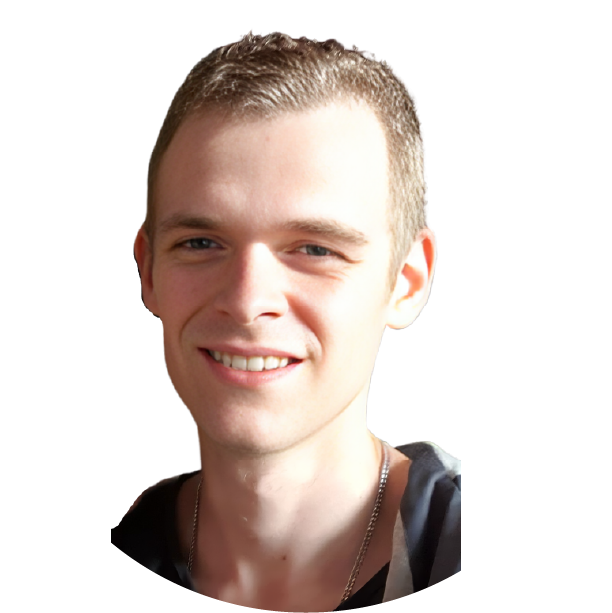
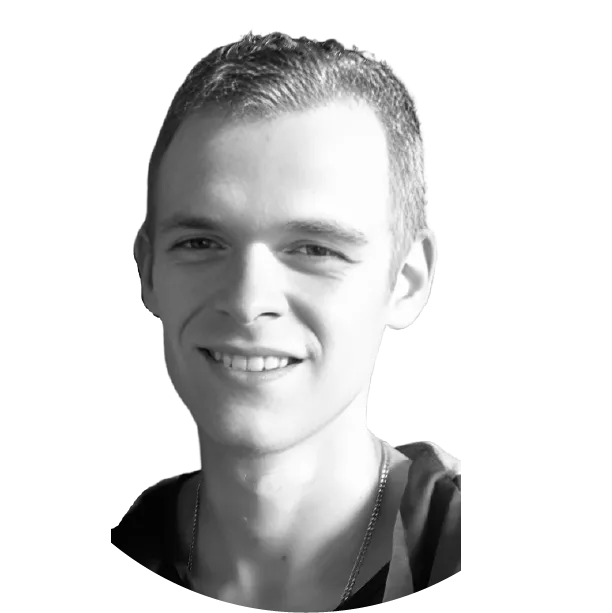
chore: clean-up

Changed region(s): [[0.2173, 0.062, 0.7141, 1.0]]

diff --git a/components/TopAppHeader.vue b/components/TopAppHeader.vue
@@ -12,13 +12,14 @@ const { Placeholder, toggle, hide, visible } = useMenu(
     }
   }
 )
+
+//     :style="{ '--translateY': `-${translateY}px` }"
 </script>
 
 <template>
   <header
     ref="elTopBar"
-    :style="{ '--translateY': `-${translateY}px` }"
-    class="fixed inset-x-0 top-0 z-20 grid h-[64px] w-screen translate-y-[--translateY] items-center bg-surface"
+    class="inset-x-0 top-0 z-20 grid h-[64px] w-screen translate-y-[--translateY] items-center bg-surface"
   >
     <PageContainer>
       <div
@@ -51,7 +52,7 @@ const { Placeholder, toggle, hide, visible } = useMenu(
       </div>
     </PageContainer>
   </header>
-  <div class="flex h-[64px]" />
+  <!--  <div class="flex h-[64px]" />-->
   <div class="mx-auto mb-2 flex w-full max-w-4xl justify-end">
     <Placeholder />
   </div>

diff --git a/pages/index.vue b/pages/index.vue
@@ -1,7 +1,7 @@
 <script lang="ts" setup></script>
 
 <template>
-  <TopAppHeader>
+  <TopAppHeader class="relative">
     <template #leading-icons>
       <NuxtLink class="flex h-full w-full items-center justify-center" to="/">
         <TheLogo />
@@ -13,10 +13,11 @@
   <PageContainer>
     <div class="grid gap-y-12 md:grid-cols-[420px,1fr]">
       <div class="">
+        <h1 class="mb-4 px-2 text-title-large">Profiel</h1>
         <ProfileHeroCard />
       </div>
       <div class="">
-        <h1 class="text-title-large">Werkervaring</h1>
+        <h1 class="mb-4 px-2 text-title-large">Werkervaring</h1>
         <Experiences />
       </div>
     </div>

diff --git a/components/Profile/ProfileHeroCard.vue b/components/Profile/ProfileHeroCard.vue
@@ -3,9 +3,7 @@ const selected = useState()
 </script>
 <template>
   <div class="grid-cols-container grid">
-    <div
-      class="flex w-full flex-col items-end justify-start pl-2.5 pr-0 pt-1 md:pt-0"
-    >
+    <div class="flex w-full flex-col items-end justify-start pt-1 md:pt-0">
       <NuxtLink to="/picture" @click.native="selected = 'picture'">
         <NuxtImg
           :class="{ selected: selected === 'picture' }"

diff --git a/nuxt.config.ts b/nuxt.config.ts
@@ -56,17 +56,13 @@ export default defineNuxtConfig({
     presets: {
       avatar: {
         modifiers: {
-          grayscale: true,
           format: 'webp',
-          fit: 'contain',
           width: 60,
           height: 60
         }
       },
       picture: {
         modifiers: {
-          grayscale: true,
-          fit: 'cover',
           format: 'webp',
           width: 360
         }

diff --git a/components/Experiences.vue b/components/Experiences.vue
@@ -83,7 +83,7 @@ const filteredData = computed(() => {
 </script>
 
 <template>
-  <div class="flex flex-col">
+  <div class="grid">
     <div v-for="experience in filteredData" :key="experience.id">
       <div class="grid-cols-container grid">
         <div class="flex flex-col py-1">
